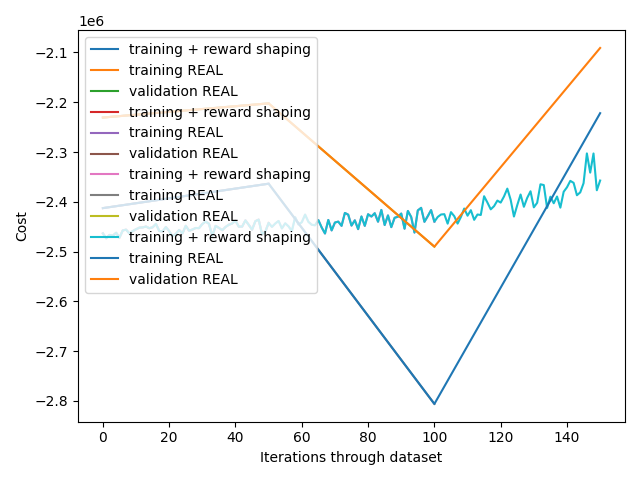
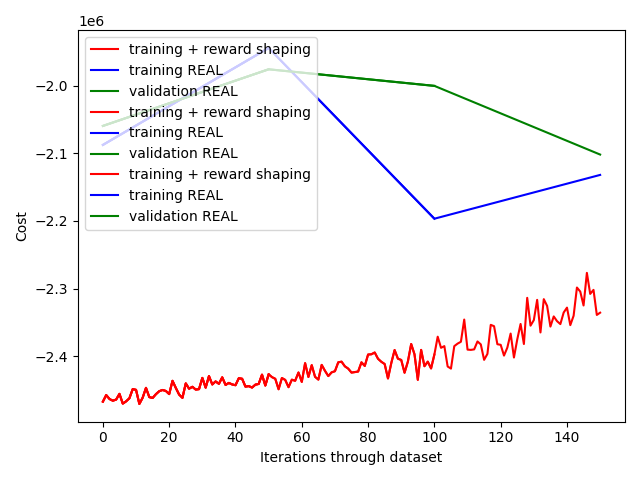
same commit at last

diff --git a/agents.py b/agents.py
@@ -212,7 +212,7 @@ class QAgent:
         # Qtable, initialize with zeros
         if Qtable_dir:
             self.Qtable = load(Qtable_dir)
-            breakpoint()
+            # breakpoint()
         else:
             self.Qtable = zeros(self.state_dims)
             self.smart_initialize()
@@ -321,8 +321,9 @@ class QAgent:
             -> EPISODES learning (experience buffer etc.)
             -> reward shaping
         '''
-        print(f'Starting training for {simulations} iterations through the dataset!')
-        
+        print(f'Starting training for {simulations} iterations through the dataset!') 
+        best_QT = self.Qtable.copy()
+
         # training environment
         env = DataCenterEnv(dataset)
         tstamps = env.timestamps
@@ -350,10 +351,6 @@ class QAgent:
                 env.reset(), tstamps)
             state_i = self.discretize_state(state)
 
-            self.daily_price.append(state['price'])
-            self.price2D.append(state['price'])
-            self.weekly_price.append(state['price'])
-
             # decaying learning rate
             LR = interp(isim, [0, self.lr_decay], self.learning_rate_range)
 
@@ -365,6 +362,10 @@ class QAgent:
             print(f"The current epsilon rate is {self.epsilon}, Learning rate is {LR}")
             
             while (not terminated) or (state['hour'] != 24):
+                self.daily_price.append(state['price'])
+                self.price2D.append(state['price'])
+                self.weekly_price.append(state['price'])
+                
                 # I) Action is index of Qtable action dimension
                 if uniform() < self.epsilon:
                     # epsilon greedy
@@ -415,7 +416,8 @@ class QAgent:
                 
                 state, state_i = next_state, next_state_i
                 total_reward += reward
-            print(f'Round {isim}: Total training Cost = {total_reward}, Qtable: {count_nonzero(self.Qtable)}')
+            # yearly
+            print(f'Round {isim}: Total training Cost = {total_reward}, Qtable: {count_nonzero(self.Qtable)}')    
             total_rewards.append(total_reward / (len(tstamps) // 365))
             
             if isim % 50 == 0:
@@ -423,24 +425,40 @@ class QAgent:
                 val = self.test('validate.xlsx')
                 training_costs.append(tr)
                 validation_costs.append(val)
-                print(f"Total REAL: (training) cost = {self.test('train.xlsx')}; validation cost = {self.test('validate.xlsx')}")
+
+                print(f"Total REAL: (training) cost = {tr}; validation cost = {val}")
+                
 
                 if isim > 0:
-                    plt.plot(arange(isim+1), total_rewards, label = 'training + reward shaping')
-                    plt.plot(arange(stop = isim + 1, step = 50), training_costs, label = 'training REAL')
-                    plt.plot(arange(stop = isim + 1, step = 50), validation_costs, label = 'validation REAL')
+                    plt.figure()
+                    plt.plot(arange(isim+1), total_rewards, label = 'training + reward shaping', color = 'r')
+                    plt.plot(arange(stop = isim + 1, step = 50), training_costs, label = 'training REAL' ,color = 'b')
+                    plt.plot(arange(stop = isim + 1, step = 50), validation_costs, label = 'validation REAL', color= 'g')
                     plt.legend(loc = 'upper left')
                     plt.xlabel('Iterations through dataset')
                     plt.ylabel('Cost')
                     plt.tight_layout()
                     plt.savefig(f'after{isim}_eps_d{self.epsilon_decay}_lr_d{self.lr_decay}.png')
+                    plt.close()
+
+                    if mean([tr, val]) >= best_fit:
+                        best_QT = self.Qtable.copy()
+                        best_fit = mean([tr, val])
+                
+                elif isim == 0: # first pass
+                    best_fit = mean([tr, val])
 
         print('Training done!')
 
-        save(f'Qtable_eps_decay{self.epsilon_decay}.npy', self.Qtable)
-
+        save(f'Qtable_eps_decay{self.epsilon_decay}_BF{round(best_fit / 1e6, 2)}.npy', best_QT)
+        
+        return best_QT
 
     def act(self, state) -> float:
+        self.daily_price.append(state['price'])
+        self.price2D.append(state['price'])
+        self.weekly_price.append(state['price'])
+        
         state = self.discretize_state(state)
         # argmax on action dimension
         # breakpoint()

diff --git a/main.py b/main.py
@@ -5,7 +5,7 @@ from utils import preprocess_state
 from agents import HourAgent, WeekdayAgent, Average, AverageHour, QAgent
 import os
 
-def main(path_to_dataset:str, PRINT:bool = True, agent_params:list|bool = False, retACTIONS: bool = False, 
+def main(path_to_dataset:str, PRINT:bool = False, agent_params:list|bool = False, retACTIONS: bool = False, 
          Agent:object = QAgent) -> float:
     # 1) Prepare / train agent
     # hardcoded agent by hour
@@ -68,9 +68,9 @@ def main(path_to_dataset:str, PRINT:bool = True, agent_params:list|bool = False,
 
     nyears = len(timestamps) // 365 
     
-    if PRINT:
-        print(f'Total reward in {nyears} years:', aggregate_reward)
-        print('Average reward / year', aggregate_reward / nyears)
+    # if PRINT:
+    print(f'Total reward in {nyears} years:', aggregate_reward)
+    print('Average reward / year', aggregate_reward / nyears)
 
     if retACTIONS:
         return aggregate_reward / nyears, actions
@@ -79,7 +79,7 @@ def main(path_to_dataset:str, PRINT:bool = True, agent_params:list|bool = False,
 
 if __name__ == '__main__':
     args = argparse.ArgumentParser()
-    args.add_argument('--path', type=str, default='train.xlsx')
+    args.add_argument('--path', type=str, default='validate.xlsx')
     args = args.parse_args()
 
     np.set_printoptions(suppress=True, precision=2)
